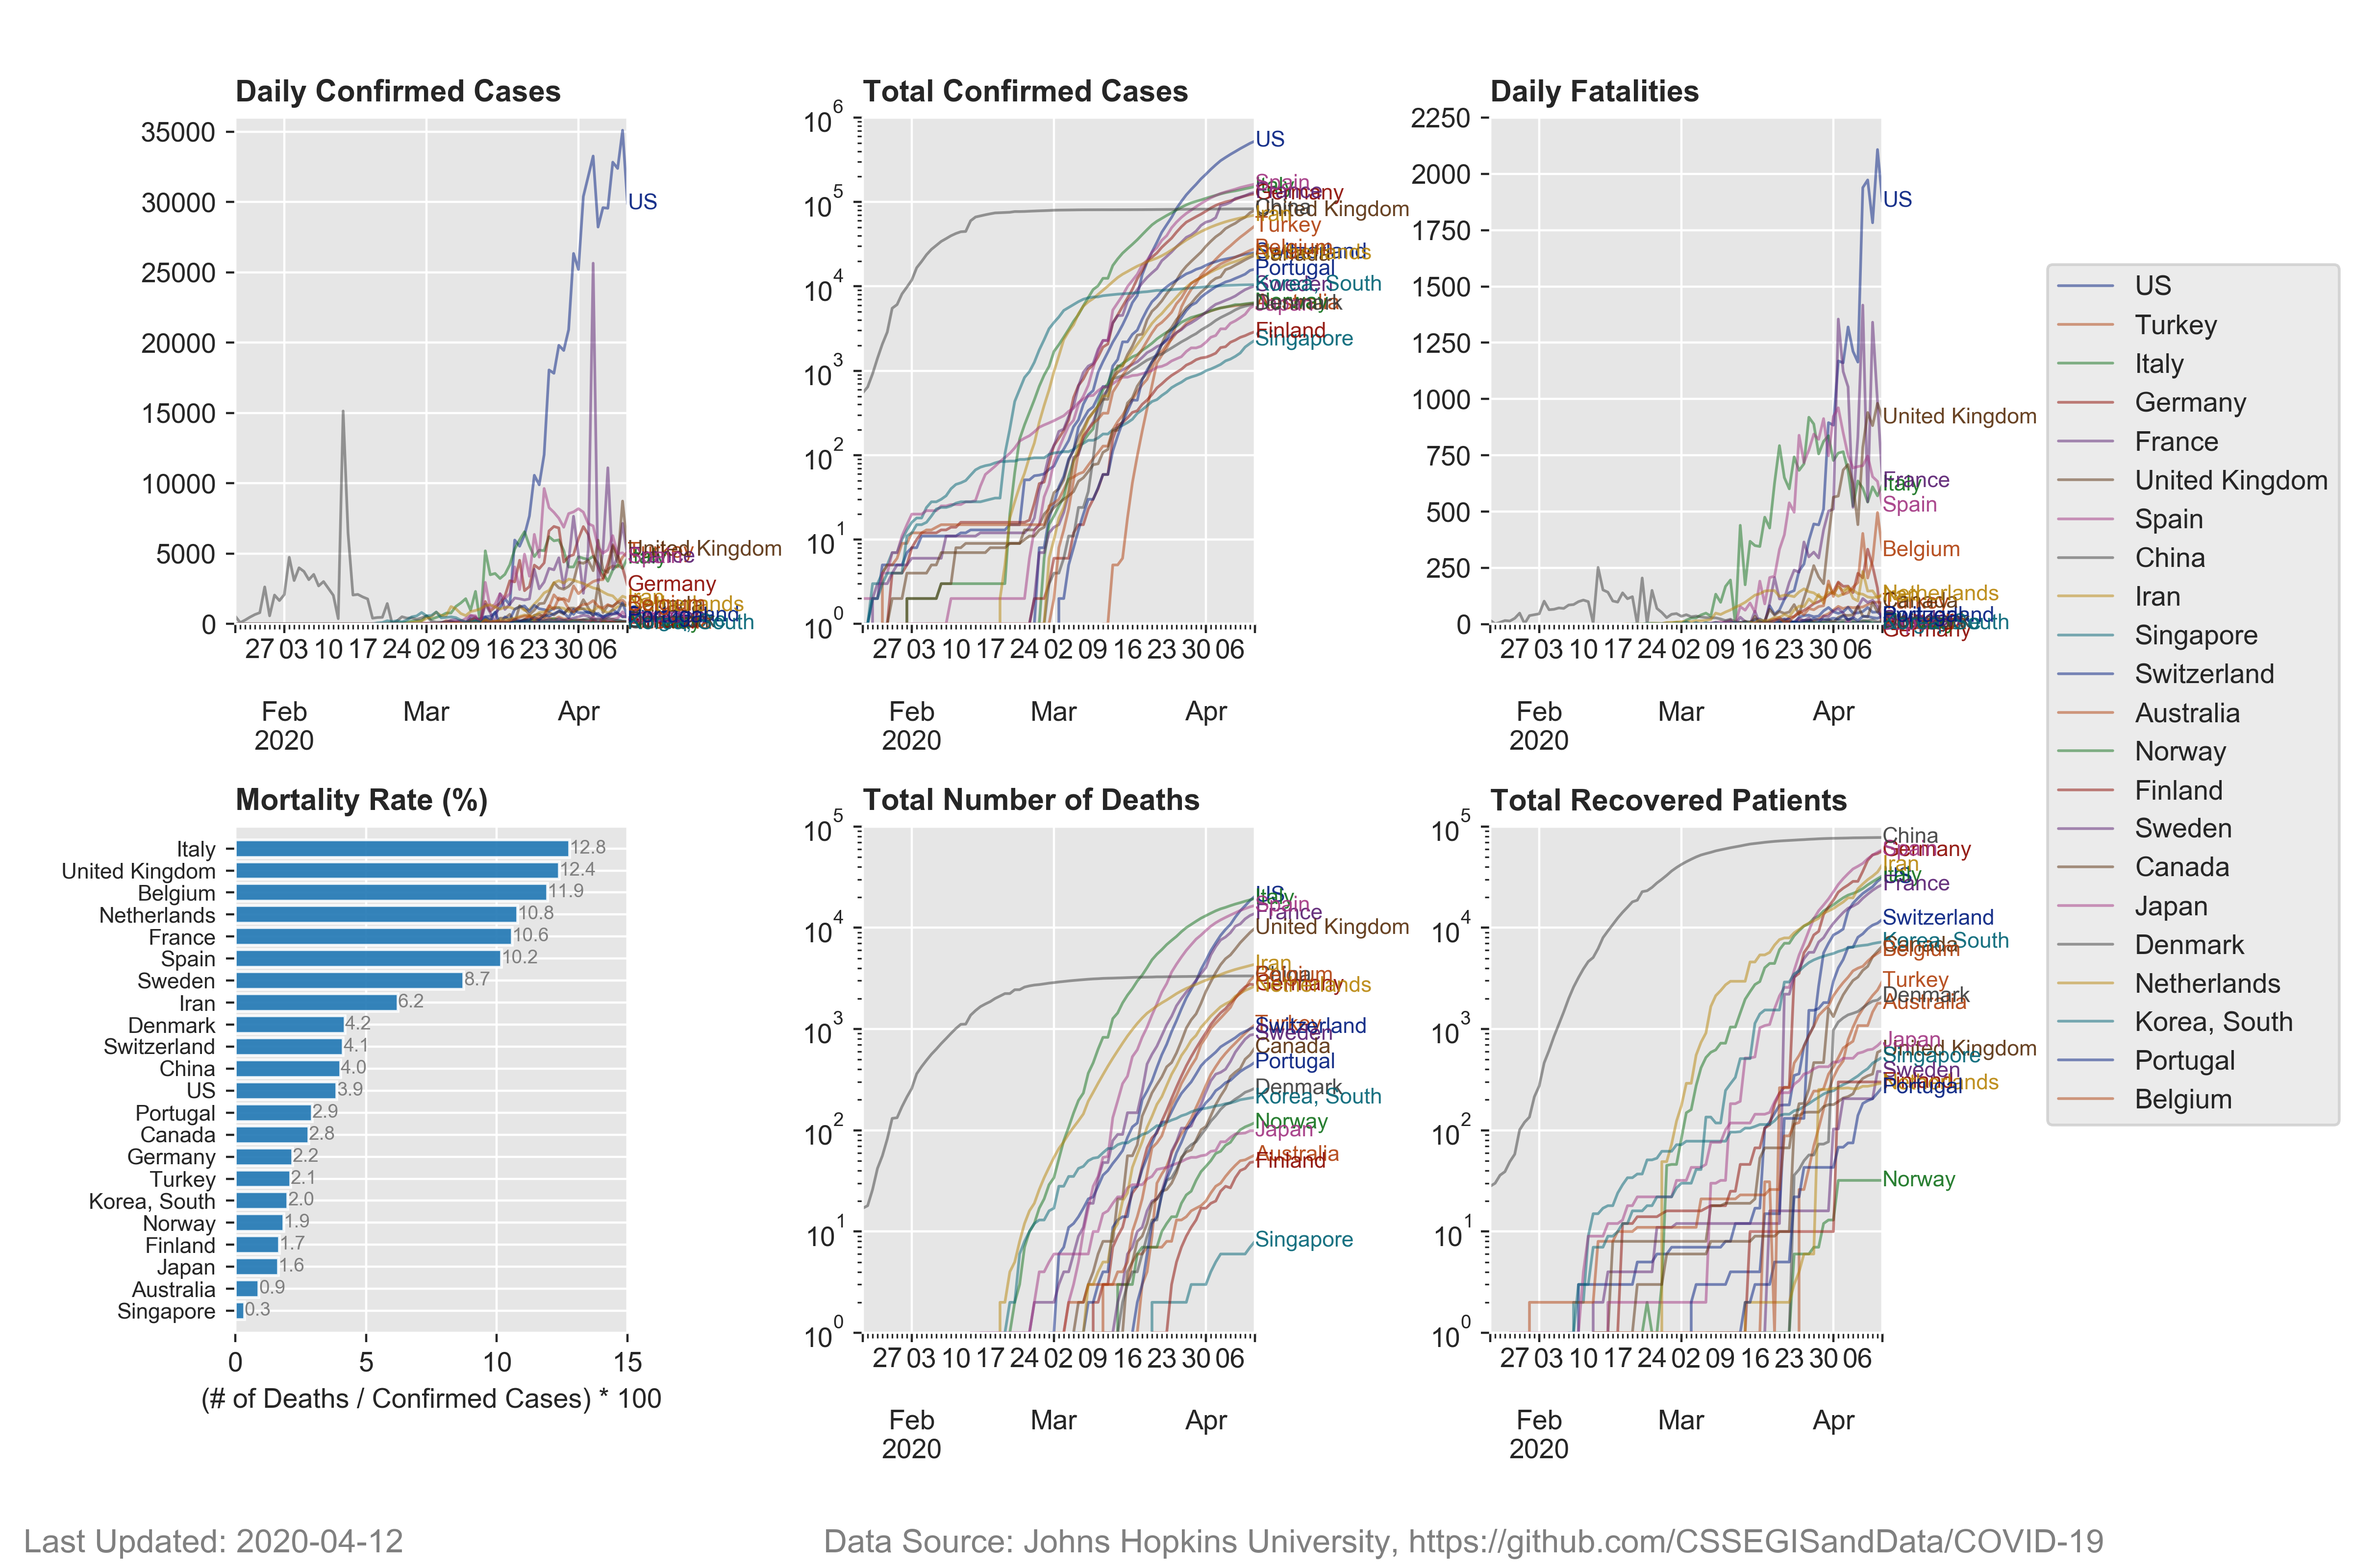
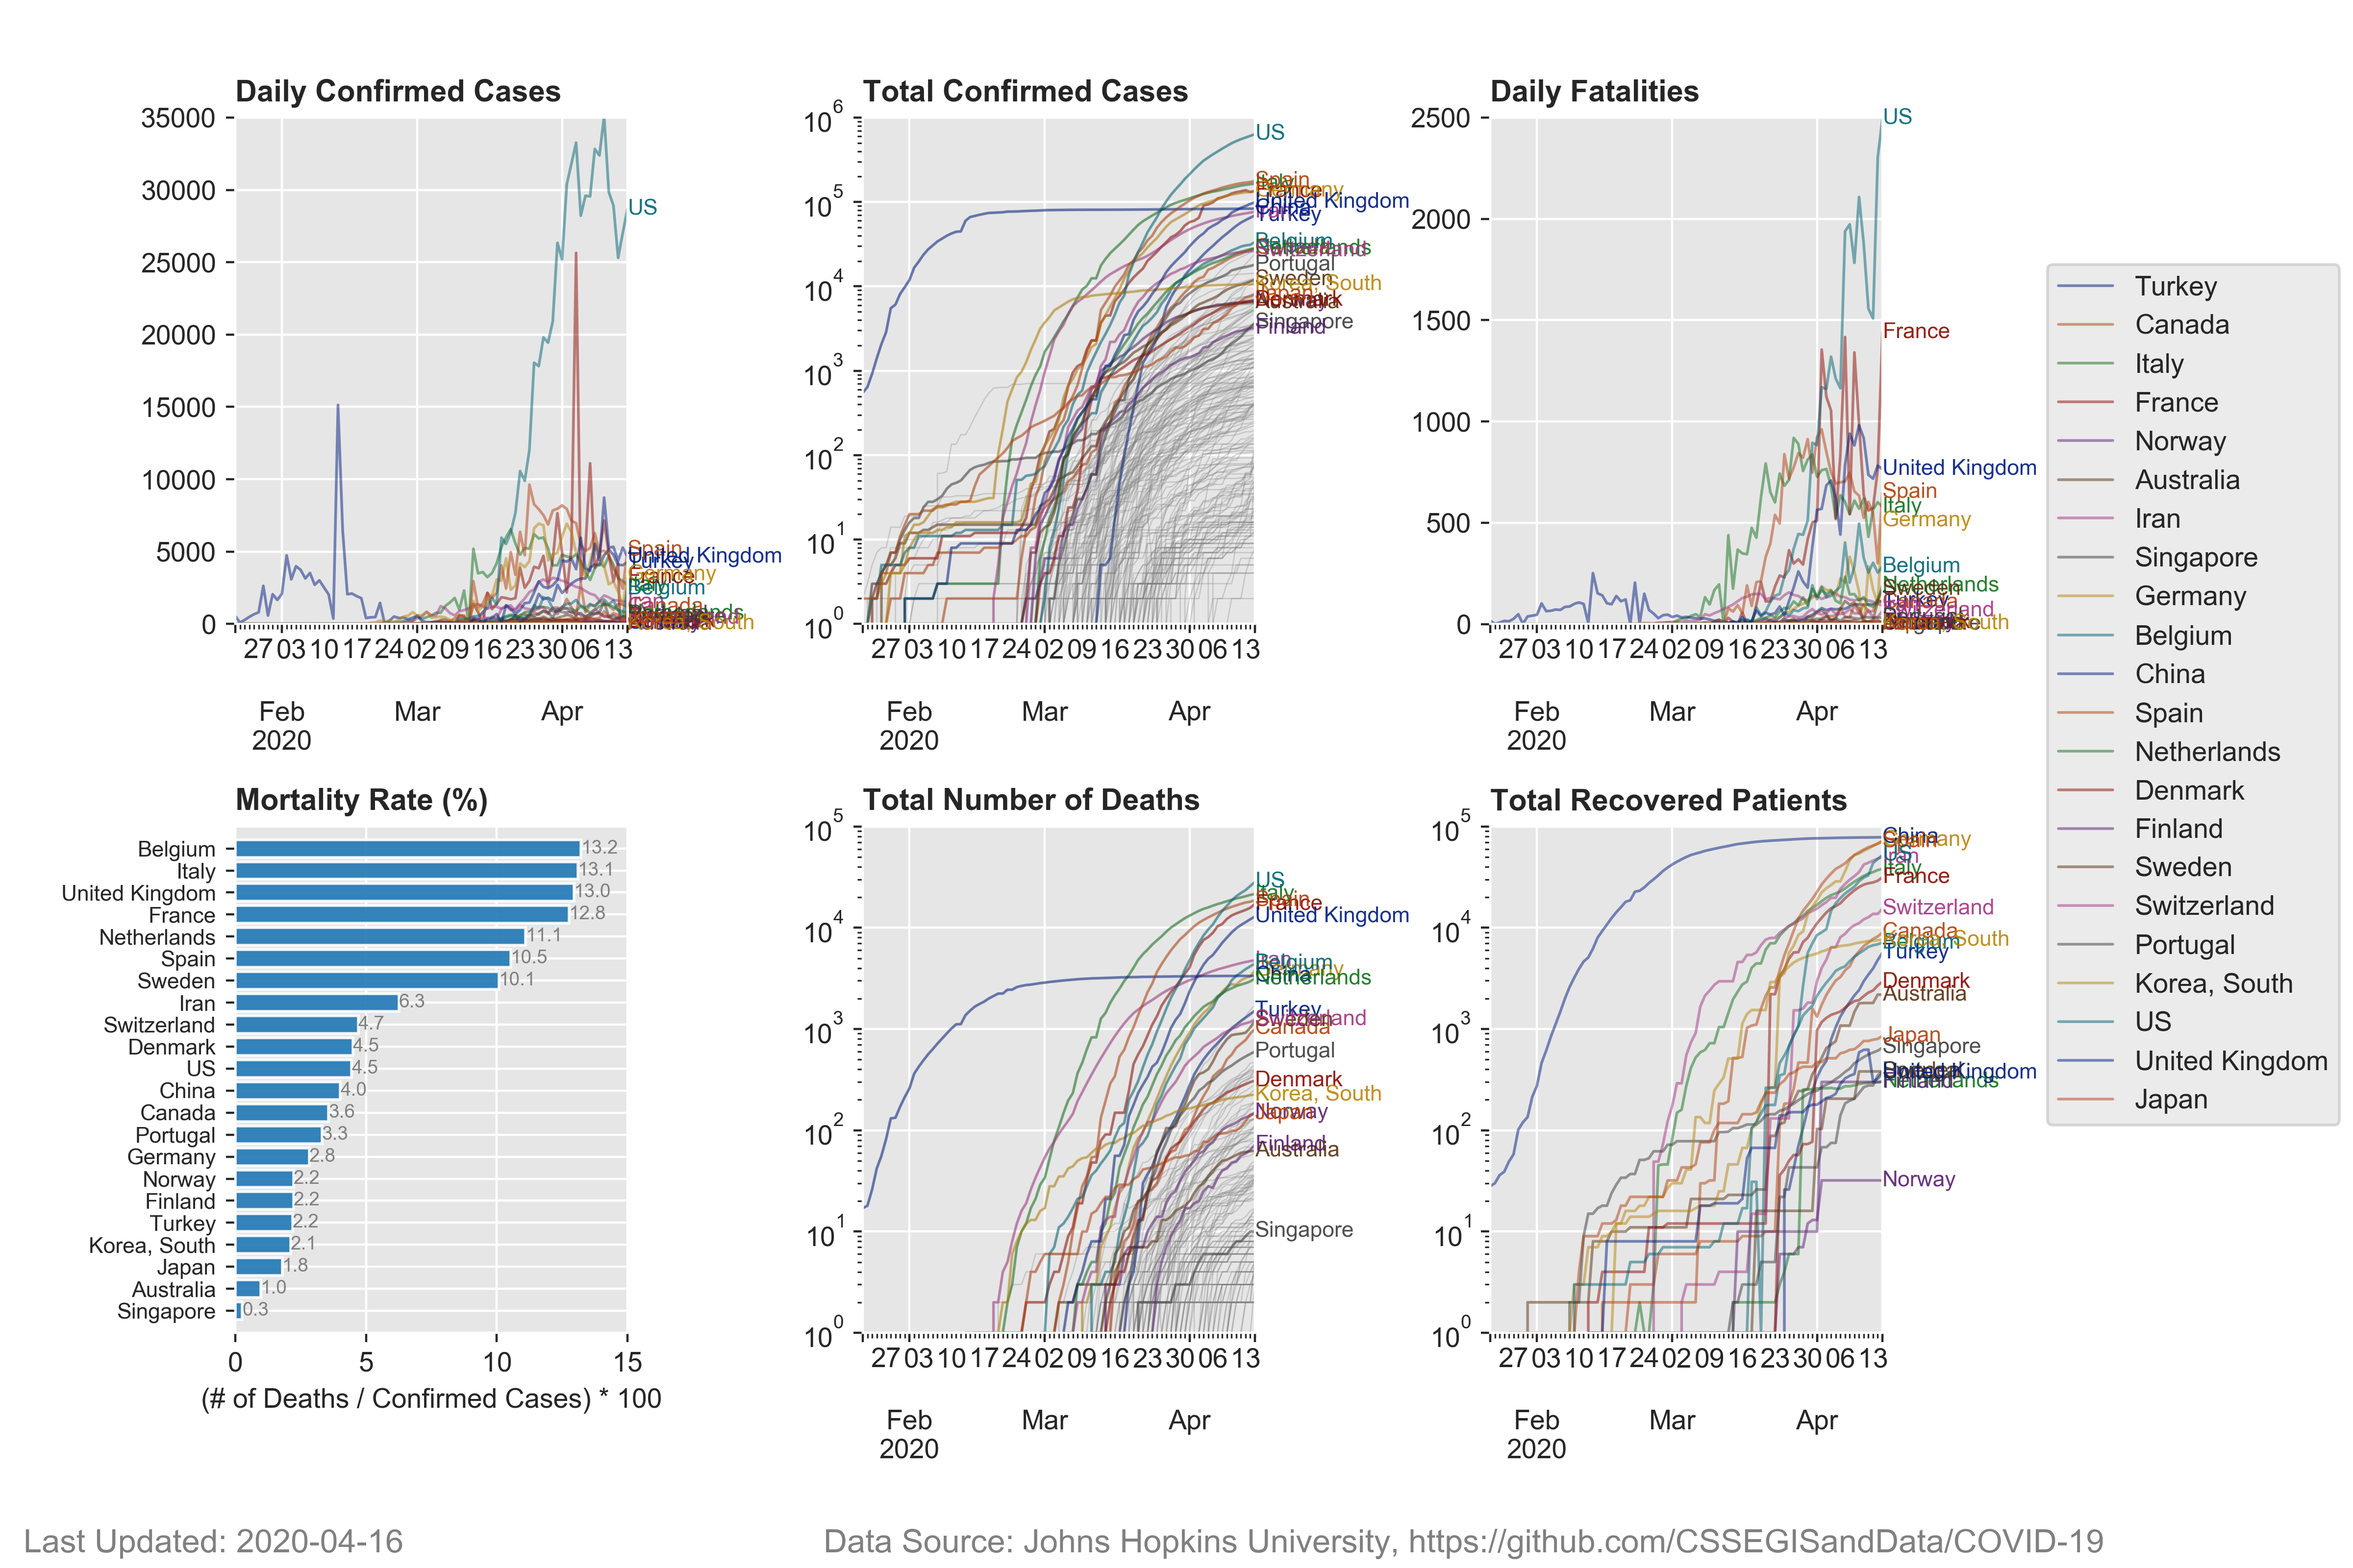
daily update

diff --git a/plotter_covid.py b/plotter_covid.py
@@ -9,39 +9,41 @@ sns.set_style("darkgrid", {"axes.facecolor": ".9"})
 
 source = 'https://github.com/CSSEGISandData/COVID-19'
 
-# countries to extract information
-countries = [
-				'US',
-				'Turkey',
-				'Italy',
-				'Germany',
-				'France',
-				'United Kingdom',
-				'Spain',
-				'China',
-				'Iran',
-				'Singapore',
-				'Switzerland',
-				'Australia',
-				'Norway',
-				'Finland',
-				'Sweden',
-				'Canada',
-				'Japan',
-				'Denmark',
-				'Netherlands',
-				'Korea, South',
-				'Portugal',
-				'Belgium',
-				]
+# countries (and UID from UID_ISO_FIPS_LookUp_Table.csv) to extract information
+countries = {
+				'US':840,
+				'Turkey':792,
+				'Italy':380,
+				'Germany':276,
+				'France':250,
+				'United Kingdom':826,
+				'Spain':724,
+				'China':156,
+				'Iran':364,
+				'Singapore':702,
+				'Switzerland':756,
+				'Australia':36,
+				'Norway':578,
+				'Finland':246,
+				'Sweden':752,
+				'Canada':124,
+				'Japan':392,
+				'Denmark':208,
+				'Netherlands':528,
+				'Korea, South':410,
+				'Portugal':620,
+				'Belgium':56,
+				}
 
 # confirmed cases
 path = '/Users/msdogan/Documents/github/COVID-19/csse_covid_19_data/csse_covid_19_time_series/time_series_covid19_confirmed_global.csv'
 confirmed_df = pd.read_csv(path)
 confirmed = pd.DataFrame(confirmed_df.T.ix[4:].values,columns=confirmed_df.T.ix[1],index=confirmed_df.T.index[4:])
 df2 = confirmed.T.groupby(['Country/Region']).sum().T
-confirmed_df = df2[countries]
+confirmed_all_df = df2.copy()
+confirmed_df = df2[countries.keys()]
 confirmed_df.index = pd.to_datetime(confirmed_df.index)
+confirmed_all_df.index = pd.to_datetime(confirmed_all_df.index)
 # print(confirmed.keys().values) # print countries
 
 # new confirmed cases
@@ -54,8 +56,10 @@ path = '/Users/msdogan/Documents/github/COVID-19/csse_covid_19_data/csse_covid_1
 death_df = pd.read_csv(path)
 death = pd.DataFrame(death_df.T.ix[4:].values,columns=death_df.T.ix[1],index=death_df.T.index[4:])
 df2 = death.T.groupby(['Country/Region']).sum().T
-death_df = df2[countries]
+death_all_df = df2.copy()
+death_df = df2[countries.keys()]
 death_df.index = pd.to_datetime(death_df.index)
+death_all_df.index = pd.to_datetime(death_all_df.index)
 
 # new deaths
 death_new_df = death_df.copy()
@@ -66,34 +70,123 @@ for i in range(len(confirmed_new_df.index)-1):
 data = death_df.ix[-1]/confirmed_df.ix[-1]*100
 sorted_idx_p = np.argsort(data)
 barPos_p = np.arange(sorted_idx_p.shape[0])
-sc = np.array(countries)
+sc = np.array(countries.keys())
 
 # recovered
 path = '/Users/msdogan/Documents/github/COVID-19/csse_covid_19_data/csse_covid_19_time_series/time_series_covid19_recovered_global.csv'
 recovered_df = pd.read_csv(path)
 recovered = pd.DataFrame(recovered_df.T.ix[4:].values,columns=recovered_df.T.ix[1],index=recovered_df.T.index[4:])
 df2 = recovered.T.groupby(['Country/Region']).sum().T
-recovered_df = df2[countries]
+recovered_all_df = df2.copy()
+recovered_df = df2[countries.keys()]
 recovered_df.index = pd.to_datetime(recovered_df.index)
+recovered_all_df.index = pd.to_datetime(recovered_all_df.index)
 
-color = sns.color_palette("dark", len(countries))
+# population and lat long
+path = '/Users/msdogan/Documents/github/COVID-19/csse_covid_19_data/UID_ISO_FIPS_LookUp_Table.csv'
+country_data_df = pd.read_csv(path)
+country_data_df = country_data_df.set_index(['UID'])
+population = country_data_df['Population'].loc[countries.values()]
+
+# active cases
+active_df = confirmed_df-death_df-recovered_df
+active_all_df = confirmed_all_df-death_all_df-recovered_all_df
+
+color = sns.color_palette("dark", len(countries.keys()))
+
+# all in one plot 1
+fig = plt.figure(figsize=(12, 8))
 
 # confirmed trend
-fig = plt.figure(figsize=(5,4)); ax = plt.gca()
+ax1 = plt.subplot(231)
+for k,item in enumerate(confirmed_df.keys()):
+	df_plot = confirmed_df[confirmed_df[item] >= 10]
+	plt.plot(np.arange(0,len(df_plot[item])),df_plot[item],color=color[k],alpha=0.5,linewidth=1,label=item)
+	plt.text(len(df_plot[item])-1,df_plot[item].iloc[-1],item,fontsize=8,color=color[k],alpha=0.6,fontweight='bold',verticalalignment='center')
+ax1.set_yscale('log')
+plt.title('Total Confirmed COVID-19 Cases', loc='left', fontweight='bold',fontsize=11)
+ax1.get_xaxis().tick_bottom()
+ax1.get_yaxis().tick_left()
+plt.xlabel('Days since confirmed cases reached 10',fontsize=10)
+plt.ylim([10,10**6])
+plt.xlim([0,90])
+
+ax2 = plt.subplot(232)
 for k,item in enumerate(confirmed_df.keys()):
 	df_plot = confirmed_df[confirmed_df[item] >= 100]
 	plt.plot(np.arange(0,len(df_plot[item])),df_plot[item],color=color[k],alpha=0.5,linewidth=1,label=item)
-	plt.text(len(df_plot[item])-1,df_plot[item].iloc[-1],item,fontsize=10,color=color[k],alpha=0.6,fontweight='bold',verticalalignment='center')
-ax.set_yscale('log')
-plt.title('Total Confirmed COVID-19 Cases', loc='left', fontweight='bold',fontsize=18)
-ax.get_xaxis().tick_bottom()
-ax.get_yaxis().tick_left()
-plt.xlabel('Days since Confirmed Cases Reached 100',fontsize=12)
+	plt.text(len(df_plot[item])-1,df_plot[item].iloc[-1],item,fontsize=8,color=color[k],alpha=0.6,fontweight='bold',verticalalignment='center')
+ax2.set_yscale('log')
+ax2.get_xaxis().tick_bottom()
+ax2.get_yaxis().tick_left()
+plt.xlabel('Days since confirmed cases reached 100',fontsize=10)
 plt.ylim([10**2,10**6])
 plt.xlim([0,90])
-plt.gcf().text(0.01, 0.01, 'Last Updated: '+str(datetime.date.today()),fontsize=8,color='grey')
-plt.gcf().text(0.325, 0.01, 'Data Source: JHU, '+source,fontsize=8,color='grey')
-plt.subplots_adjust(left=0.1, bottom=0.15, right=0.95, top=0.925)
+
+ax3 = plt.subplot(233)
+for k,item in enumerate(confirmed_df.keys()):
+	df_plot = confirmed_df[confirmed_df[item] >= 1000]
+	plt.plot(np.arange(0,len(df_plot[item])),df_plot[item],color=color[k],alpha=0.5,linewidth=1,label=item)
+	plt.text(len(df_plot[item])-1,df_plot[item].iloc[-1],item,fontsize=8,color=color[k],alpha=0.6,fontweight='bold',verticalalignment='center')
+ax3.set_yscale('log')
+ax3.get_xaxis().tick_bottom()
+ax3.get_yaxis().tick_left()
+plt.xlabel('Days since confirmed cases reached 1000',fontsize=10)
+plt.ylim([10**3,10**6])
+plt.xlim([0,90])
+
+# active trend
+ax4 = plt.subplot(235)
+active_all_df.plot(ax=ax4,alpha=0.3,color='gray',legend=False,linewidth=0.5)
+active_df.plot(
+	logy=True,
+	ax=ax4,alpha=0.5,ylim=[100,10**6],xlim=[active_df.index[0],active_df.index[-1]],color=color,legend=False,linewidth=1)
+for i,item in enumerate(active_df.keys()):
+	plt.text(active_df.index[-1],active_df[item].iloc[-1],item,fontsize=8,color=color[i],alpha=0.9,verticalalignment='center')
+plt.title('Total Active COVID-19 Cases', loc='left', fontweight='bold',fontsize=11)
+ax4.get_xaxis().tick_bottom()
+ax4.get_yaxis().tick_left()
+
+# death trend
+ax5 = plt.subplot(236)
+for k,item in enumerate(death_df.keys()):
+	df_plot = death_df[death_df[item] >= 1]
+	plt.plot(np.arange(0,len(df_plot[item])),df_plot[item],color=color[k],alpha=0.5,linewidth=1,label=item)
+	plt.text(len(df_plot[item])-1,df_plot[item].iloc[-1],item,fontsize=8,color=color[k],alpha=0.6,fontweight='bold',verticalalignment='center')
+ax5.set_yscale('log')
+plt.title('Total Fatalities', loc='left', fontweight='bold',fontsize=11)
+ax5.get_xaxis().tick_bottom()
+ax5.get_yaxis().tick_left()
+plt.xlabel('Days since the first fatality',fontsize=10)
+plt.ylim([1,10**5])
+plt.xlim([0,90])
+plt.legend(bbox_to_anchor=(1.2, 1.2, 1., .12), loc='center right', ncol=1)
+
+# incidence ratio
+ir = []
+for i,item in enumerate(countries.keys()):
+	ir.append(confirmed_df[item].iloc[-1]/population[countries[item]]*10**6)
+ir = np.array(ir)
+sorted_idx_p_ir = np.argsort(ir)
+barPos_p_ir = np.arange(sorted_idx_p_ir.shape[0])
+sc_ir = np.array(countries.keys())
+
+# incidence rate
+ax6 = plt.subplot(234)
+plt.barh(barPos_p_ir, ir[sorted_idx_p_ir],alpha=0.9)
+plt.yticks(barPos_p_ir, sc_ir[sorted_idx_p_ir],fontsize=8)
+plt.title('Incidence Rate', loc='left', fontweight='bold',fontsize=11)
+ax6.get_xaxis().tick_bottom()
+ax6.get_yaxis().tick_left()
+plt.xlim([0,4000])
+plt.ylim([-1,len(barPos_p_ir)])
+plt.xlabel('Confirmed Case per Million People',fontsize=10)
+for i,item in enumerate(ir[sorted_idx_p_ir]):
+	plt.text(item,i,str(int(round(item))),verticalalignment='center',fontsize=7,color='gray')
+
+plt.subplots_adjust(left=0.1, bottom=0.15, right=0.8, top=0.925, wspace=0.6, hspace=0.4)
+plt.gcf().text(0.01, 0.01, 'Last Updated: '+str(datetime.date.today()),fontsize=12,color='grey')
+plt.gcf().text(0.35, 0.01, 'Data Source: Johns Hopkins University, '+source,fontsize=12,color='grey')
 plt.savefig('confirmed_trend.png',transparent=False,dpi=400)
 plt.close(fig)
 
@@ -127,13 +220,13 @@ def animate(i):
 anim = animation.FuncAnimation(fig, animate, frames=len(confirmed_df.keys()), interval=1200)
 anim.save('confirmed.gif', writer='imagemagick', dpi=400)
 
-# all in one plot
-plt.figure(figsize=(12, 8))
+# all in one plot 2
+fig = plt.figure(figsize=(12, 8))
 
 ax1 = plt.subplot(231)
 confirmed_new_df.plot(
 	# logy=True,
-	ax=ax1,alpha=0.5,ylim=[1,36000],xlim=[confirmed_new_df.index[0],confirmed_new_df.index[-1]],color=color,legend=False,linewidth=1)
+	ax=ax1,alpha=0.5,ylim=[1,35000],xlim=[confirmed_new_df.index[0],confirmed_new_df.index[-1]],color=color,legend=False,linewidth=1)
 plt.title('Daily Confirmed Cases', loc='left', fontweight='bold',fontsize=11)
 ax1.get_xaxis().tick_bottom()
 ax1.get_yaxis().tick_left()
@@ -141,6 +234,7 @@ for i,item in enumerate(confirmed_new_df.keys()):
 	plt.text(confirmed_new_df.index[-1],confirmed_new_df[item].iloc[-1],item,fontsize=8,color=color[i],alpha=0.9,verticalalignment='center')
 
 ax2 = plt.subplot(232)
+confirmed_all_df.plot(ax=ax2,alpha=0.3,color='gray',legend=False,linewidth=0.5)
 confirmed_df.plot(
 	logy=True,
 	ax=ax2,alpha=0.5,ylim=[1,10**6],xlim=[confirmed_df.index[0],confirmed_df.index[-1]],color=color,legend=False,linewidth=1)
@@ -153,7 +247,7 @@ for i,item in enumerate(confirmed_df.keys()):
 ax3 = plt.subplot(233)
 death_new_df.plot(
 	# logy=True,
-	ax=ax3,alpha=0.5,ylim=[1,2250],xlim=[death_new_df.index[0],death_new_df.index[-1]],color=color,legend=False,linewidth=1)
+	ax=ax3,alpha=0.5,ylim=[1,2500],xlim=[death_new_df.index[0],death_new_df.index[-1]],color=color,legend=False,linewidth=1)
 plt.title('Daily Fatalities', loc='left', fontweight='bold',fontsize=11)
 ax3.get_xaxis().tick_bottom()
 ax3.get_yaxis().tick_left()
@@ -173,6 +267,7 @@ for i,item in enumerate(data[sorted_idx_p]):
 	plt.text(item,i,str(round(item,1)),verticalalignment='center',fontsize=7,color='gray')
 
 ax5 = plt.subplot(235)
+death_all_df.plot(ax=ax5,alpha=0.3,color='gray',legend=False,linewidth=0.5)
 death_df.plot(
 	logy=True,
 	ax=ax5,alpha=0.5,ylim=[1,10**5],xlim=[death_df.index[0],death_df.index[-1]],color=color,legend=False,linewidth=1)
